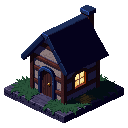
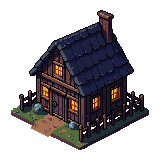
K3: деревня ночью — спокойная трава, дома крупнее, плетень по диагонали
Claude-Session: https://claude.ai/code/session_018SHDdbzaB97y34YHTo96bA

diff --git a/art/tools/k3_batch6.py b/art/tools/k3_batch6.py
@@ -11,13 +11,13 @@ NIGHT = "night, cold moonlight with warm firelight from the left, "
 
 TILES = {
  "floor_path": (FLAT + "packed dirt village path with grass tufts and a small puddle, night, low contrast, seamless edges", "thin tile"),
- "floor_grass": (FLAT + "trampled muted green grass with a few fallen brown leaves, night, low contrast, seamless edges", "thin tile"),
+ "floor_grass": (FLAT + "calm uniform short dark muted green grass, very low detail, almost no pattern, night, low contrast, seamless edges", "thin tile"),
  "floor_garden": (FLAT + "dug-up dark soil with small cabbages growing in it, night, low contrast, seamless edges", "thin tile"),
  "edge": ("ground block with a dark earth cross-section on the sides and trampled grass on top, night", "thick tile"),
 }
 OBJECTS = {
- "house": ("small timber-and-wattle village cottage with a thatched roof and a small shuttered window glowing warm", 128, 128),
- "house_burning": ("small timber-and-wattle village cottage on fire, bright flames on the thatched roof, sparks", 128, 128),
+ "house": ("timber-and-wattle village cottage with a dark thatched roof and a small shuttered window glowing warm, the cottage fills the whole canvas", 160, 160),
+ "house_burning": ("timber-and-wattle village cottage on fire, bright flames on the dark thatched roof, sparks, the cottage fills the whole canvas", 160, 160),
  "fence": ("short straight section of a woven wattle fence", 64, 64),
  "woodpile": ("stacked firewood logs under a small lean-to roof", 64, 64),
  "well": ("old round stone village well with a wooden crank and a bucket", 64, 64),

diff --git a/art/tools/village_preview.py b/art/tools/village_preview.py
@@ -11,7 +11,7 @@ N = 8
 M = ["ggggpggg", "ggggpggg", "ggggpggg", "gggpgggg", "ggpggggg", "gpggooog", "pgggooog", "pggggggg"]
 KEY = {"p": "floor_path", "g": "floor_grass", "o": "floor_garden"}
 OBJS = {(1, 1): "house", (6, 1): "house_burning", (3, 3): "well", (0, 4): "woodpile", (7, 3): "bell_tower",
-        (4, 4): "fence", (5, 4): "fence", (6, 4): "fence", (3, 5): "tools"}
+        (4, 3): "fence", (4, 4): "fence", (4, 5): "fence", (3, 5): "tools"}
 CHARS = {(2, 5): C / "hero_fighter_m/composited/idle/south-east/00.png",
          (4, 2): W1 / "zombie/rotations/north-west.png", (5, 2): C / "parishioner_m/base/Idle/rotations/north-west.png",
          (1, 6): C / "neighbor/base/Idle/rotations/north-east.png"}

diff --git a/art/prologue/K3.md b/art/prologue/K3.md
@@ -57,7 +57,7 @@
 
 `k3_batch6.py` (`--reroll имя…` — ещё два seed в `variants/`): 3 пола, край, дом, горящий дом, плетень, поленница, колодец, колокольня, вилы у столба. Полы и постройки перегенерированы по два раза, отобраны дом и горящий дом одной пары (`house_1`, `house_burning_1`). Пробная сцена — `previews/village_night_scene.png` (`village_preview.py`). Около 27 генераций.
 
-Что видно по сцене: трава слишком пёстрая и повторяется узором; дома занимают одну клетку и выглядят мелко рядом с людьми; плетень стоит не по той диагонали; у построек остались подставки-фундаменты (на траве почти незаметны).
+Первая сцена показала пёструю траву, мелкие дома и плетень не по той диагонали. Исправлено: спокойная трава (`floor_grass_4`), дома на холсте 160×160 с двором и оградой (`house_4`, `house_burning_4`), плетень `fence.png` идёт вдоль оси y, зеркальный `fence_b.png` — вдоль оси x.
 
 ## Дальше
 
